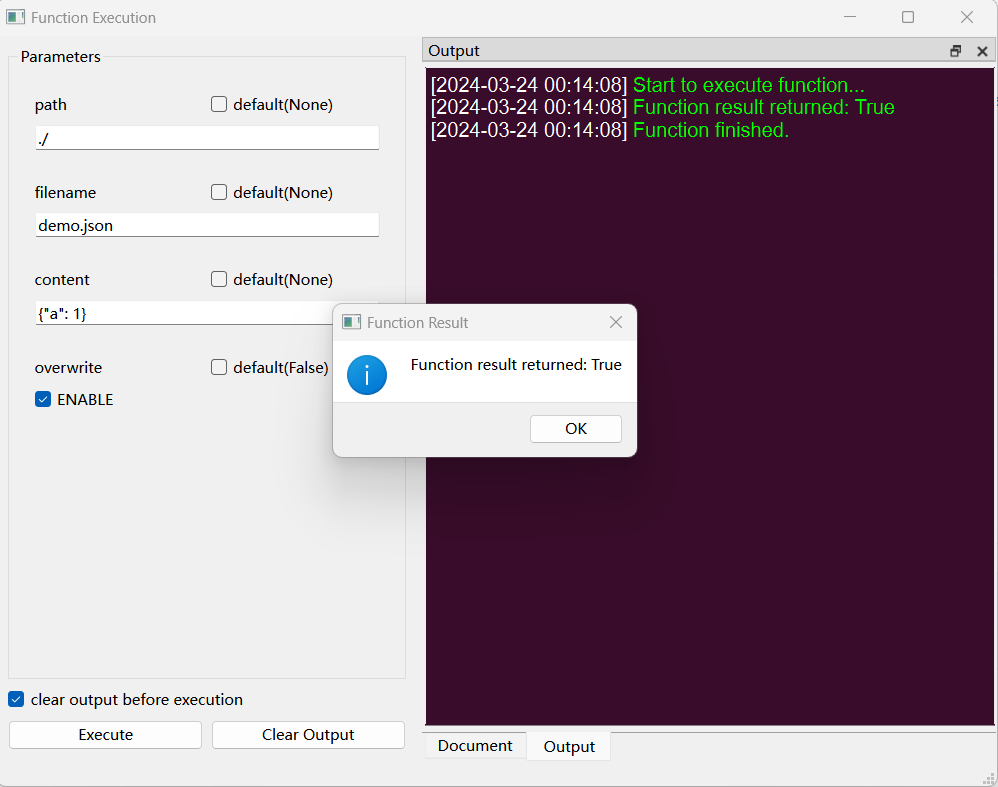
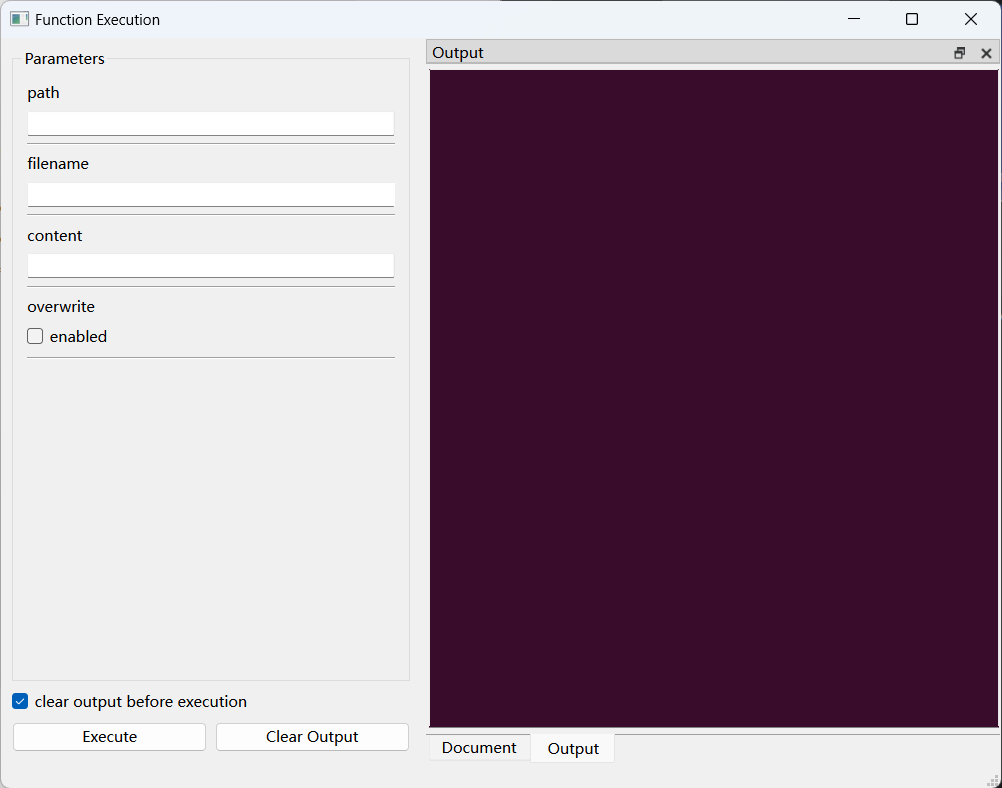
feat(app): update deps, new example and more

diff --git a/examples/create_file_demo2.py b/examples/create_file_demo2.py
@@ -1,0 +1,59 @@
+import os.path
+
+
+def create_file(
+    path: str,
+    filename: str,
+    content: str,
+    overwrite: bool = True,
+):
+    """
+    这是一个演示程序，用于演示<b>PyGUIAdapter</b>的功能，这段文字会被提取为函数的Document，并显示在界面上。
+
+    :param path: <b>生成文件的保存的目录，若为空则保存到当前路径下</b>
+    :param filename: <b>生成文件的文件名称。注意：<font color=red>不可为空！</font></b>
+    :param content: <b>生成文件的内容</b>
+    :param overwrite:
+    :return:
+
+    @widgets
+    [path]
+    widget_class="DirPathEdit"
+    label="保存路径"
+    button_text="选择目录"
+    placeholder="选择文件保存的目录"
+
+    [filename]
+    label="文件名"
+    placeholder="生成文件的名称"
+    clear_button=true
+
+    [content]
+    widget_class="PlainTextEdit"
+    label="文件内容"
+    placeholder="生成文件的内容"
+
+    [overwrite]
+    label=""
+    text="是否覆盖现有文件？"
+
+    @end
+    """
+    if not path:
+        path = "./"
+    if not filename:
+        raise ValueError("文件名不可为空，请指定文件名称")
+    path = os.path.join(path, filename)
+    if not os.path.isfile(path) or overwrite:
+        with open(path, "w", encoding="utf-8") as f:
+            f.write(content)
+            return True
+    return False
+
+
+if __name__ == "__main__":
+    from pyguiadapter.adapter.adapter import GUIAdapter
+
+    gui_adapter = GUIAdapter()
+    gui_adapter.add(create_file)
+    gui_adapter.run()

diff --git a/pyguiadapter/__init__.py b/pyguiadapter/__init__.py
@@ -1,0 +1,1 @@
+from .adapter import GUIAdapter
